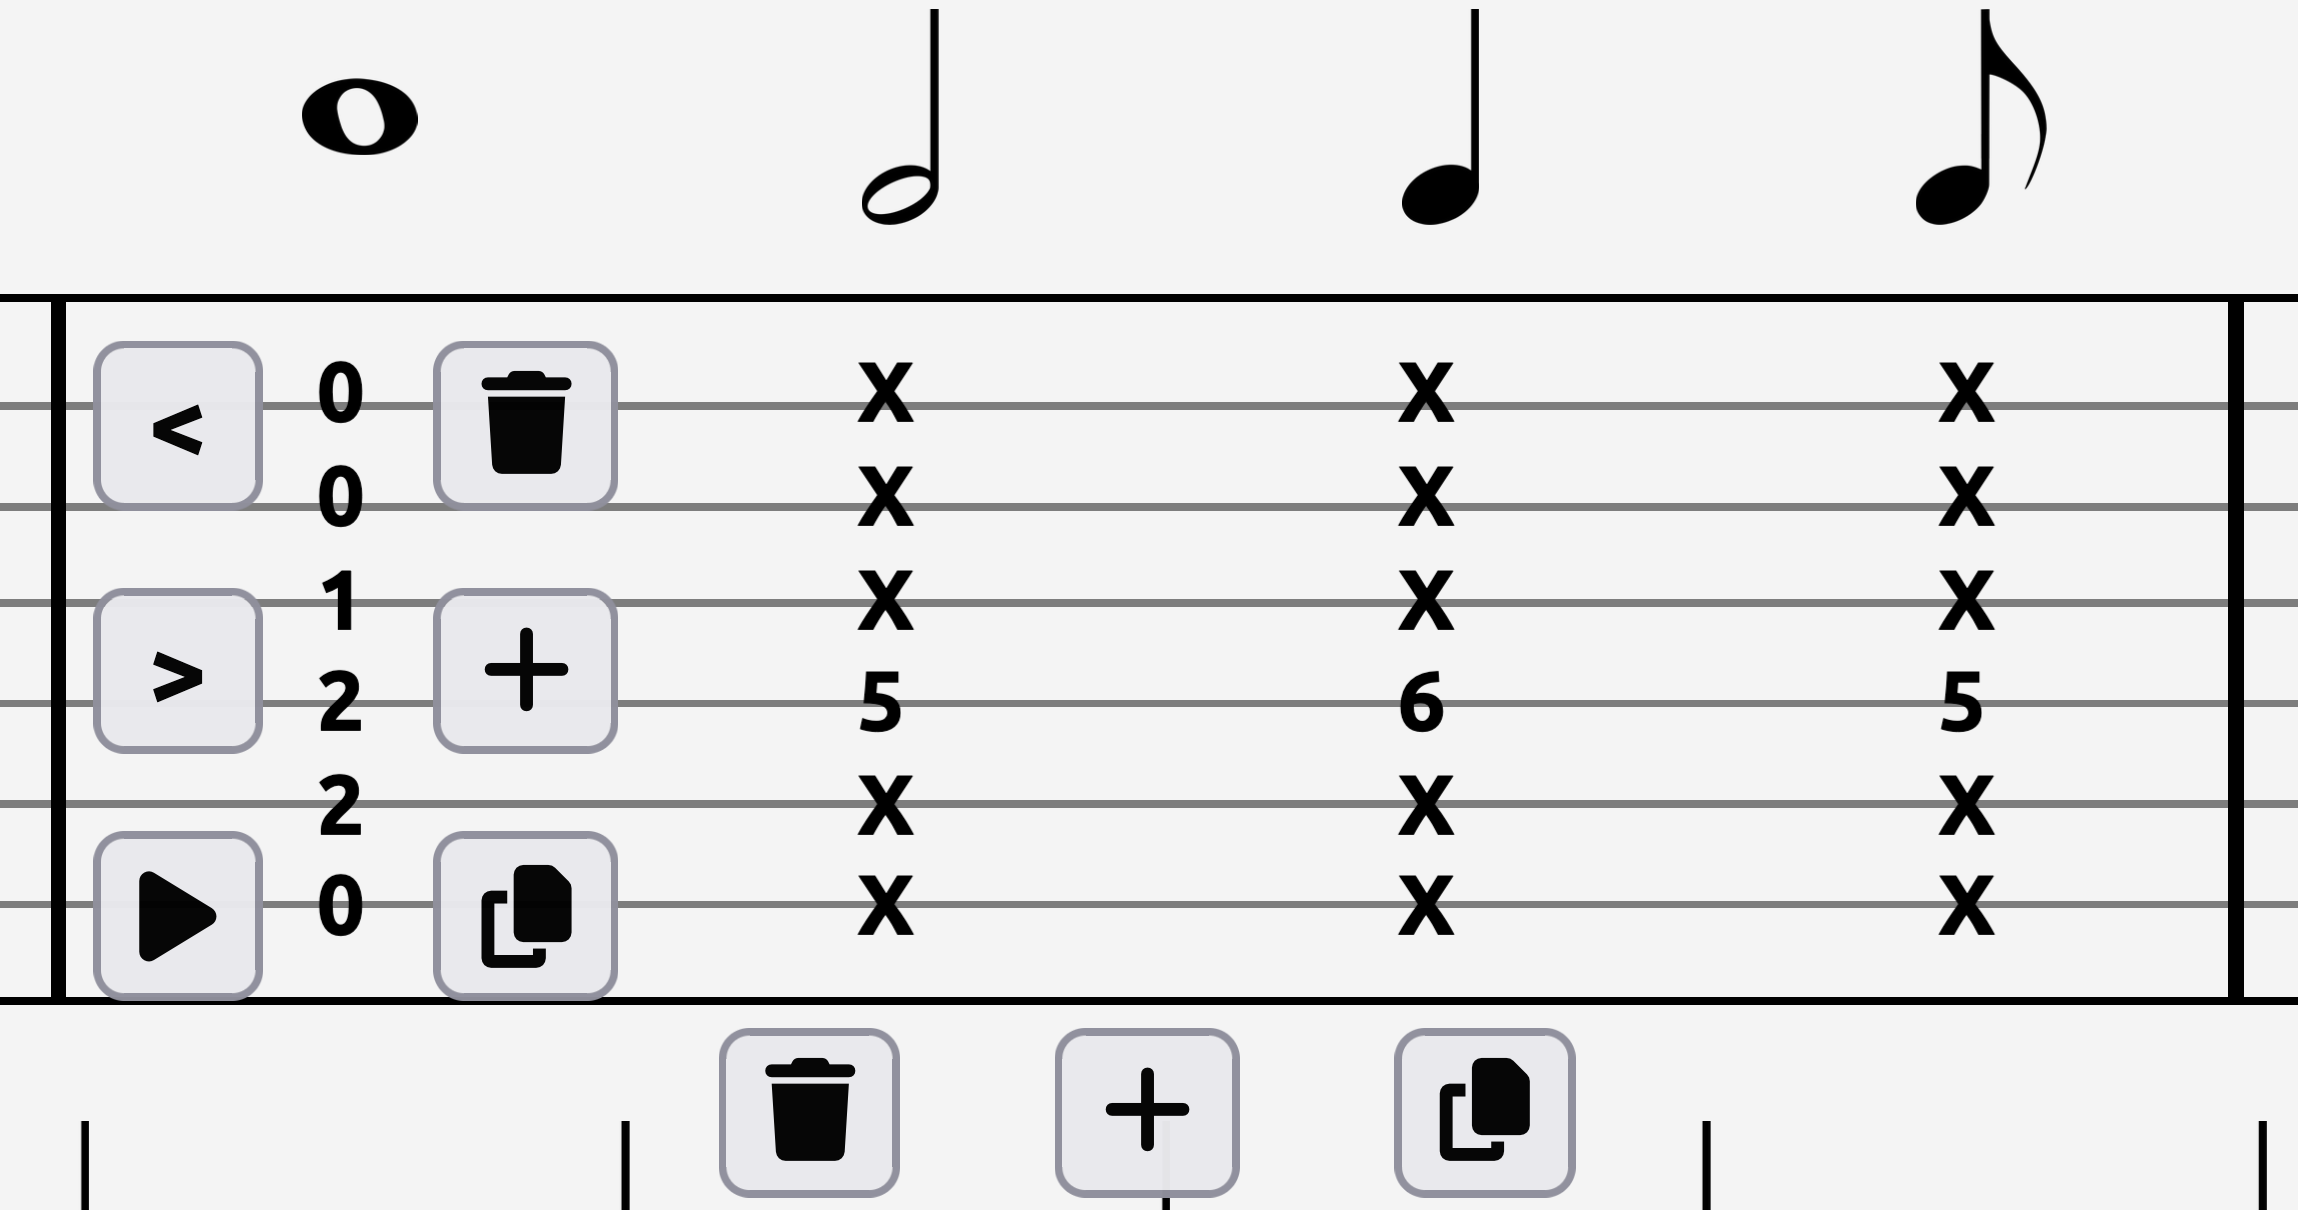
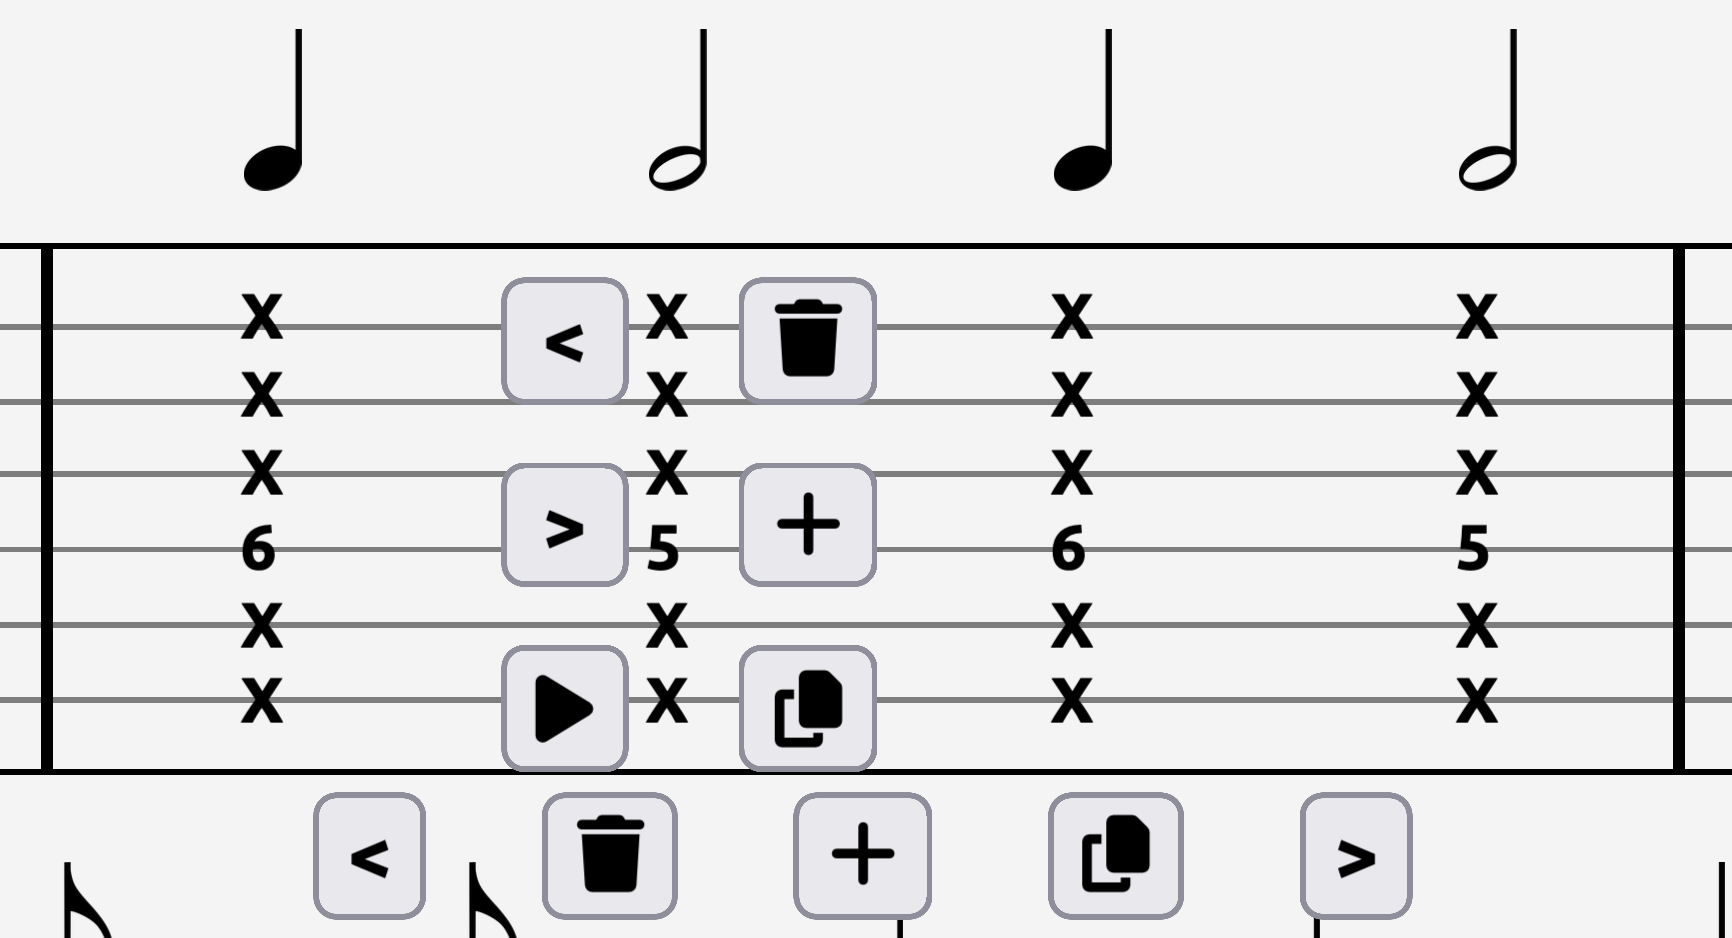
Update README

diff --git a/README.md b/README.md
@@ -17,7 +17,7 @@ Guitar tablature is how guitar music is read, like sheet music for a piano. Ther
 
 For example:
 
-```
+```bash
 E | 0 (This is an E note)
 B | 0 (B)
 G | 1 (G#)
@@ -36,7 +36,9 @@ This is an E major chord, which is played like this:
 
 This project allows users to seamlessly create and play guitar tablature. Songs are stored in a MySQL database, persist across sessions, and can be browsed or searched directly from the homepage.
 
-When you hover over a measure (the box with lines), you are given 3 options:
+When you hover over a measure (the box with lines), you are given 5 options:
+- Shift left
+- Shift right
 - Delete
 - Add a new empty measure immediately after the current one
 - Duplicate measure and add it immediately after the current one
@@ -71,7 +73,7 @@ cd Guitar-Tablature-Reader
 
 2. **Configure the database:**
 
-- Go to project folder
+- Go to project folder.
 
 ```bash
 cd website/demo
@@ -86,7 +88,7 @@ cp .env.example .env
 
 3. **Run the backend:**
 
-- Make sure you are in the `demo` folder
+- Make sure you are in the `demo` folder.
 
 ```bash
 docker-compose up --build
